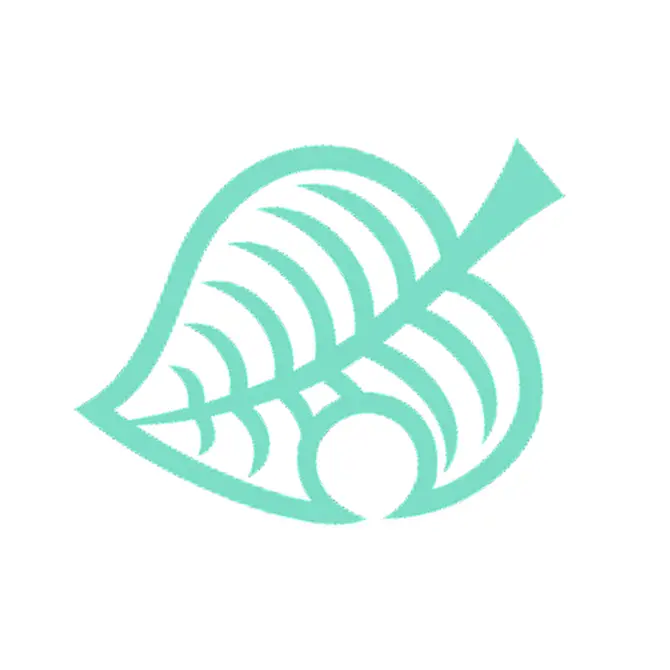
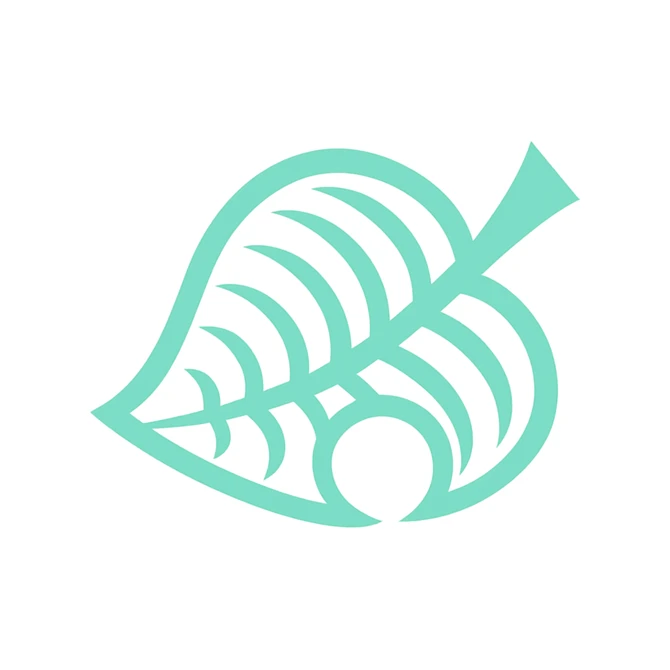
feat: 스플래시를 잎 로고와 테마 바탕으로 변경하고 다크 모드 대응

Changed region(s): [[0.1194, 0.209, 0.8657, 0.806]]

diff --git a/app.config.js b/app.config.js
@@ -10,11 +10,6 @@ export default {
 		scheme: 'animal-crossing-trading-app',
 		userInterfaceStyle: 'automatic',
 		newArchEnabled: true,
-		splash: {
-			image: './assets/images/splash_image.jpg',
-			resizeMode: 'contain',
-			backgroundColor: '#ffffff',
-		},
 		ios: {
 			supportsTablet: true,
 			bundleIdentifier: 'com.janechun.animalcrossingtradingapp',
@@ -22,11 +17,6 @@ export default {
 			infoPlist: {
 				ITSAppUsesNonExemptEncryption: false,
 				FirebaseAutomaticScreenReportingEnabled: false,
-			},
-			splash: {
-				image: './assets/images/splash_image.jpg',
-				resizeMode: 'contain',
-				backgroundColor: '#ffffff',
 			},
 			googleServicesFile: process.env.GOOGLE_SERVICE_INFO_PLIST,
 		},
@@ -45,6 +35,21 @@ export default {
 		},
 		plugins: [
 			'expo-font',
+			[
+				'expo-splash-screen',
+				{
+					image: './assets/images/splash_icon.png',
+					// SplashScreen.tsx의 SPLASH_ICON_WIDTH와 같아야 전환할 때 로고가 움직이지 않는다.
+					// Android 12+는 288dp 캔버스 중앙 지름 192dp 원 밖을 자르므로 잎 대각선이 그 안에 들어가는 150으로 둔다.
+					imageWidth: 150,
+					resizeMode: 'contain',
+					backgroundColor: '#ffffff',
+					dark: {
+						image: './assets/images/splash_icon.png',
+						backgroundColor: '#111118',
+					},
+				},
+			],
 			'expo-web-browser',
 			'@react-native-firebase/app',
 			[

diff --git a/src/screens/SplashScreen.tsx b/src/screens/SplashScreen.tsx
@@ -2,13 +2,18 @@ import { StyleSheet, View } from 'react-native';
 import FastImage from 'react-native-fast-image';
 
 import { Theme, useThemedStyles } from '@/theme';
-import splashImage from '@assets/images/splash_image.jpg';
+import splashIcon from '@assets/images/splash_icon.png';
+
+/** app.config.js의 expo-splash-screen `imageWidth`와 같아야 네이티브 스플래시에서 넘어올 때 로고가 움직이지 않는다 */
+const SPLASH_ICON_WIDTH = 150;
+/** splash_icon.png 원본 크기(797x632)의 가로세로 비율 */
+const SPLASH_ICON_ASPECT_RATIO = 797 / 632;
 
 const SplashScreen = () => {
 	const styles = useThemedStyles(makeStyles);
 	return (
 		<View style={styles.container}>
-			<FastImage source={splashImage} style={styles.image} resizeMode="contain" />
+			<FastImage source={splashIcon} style={styles.image} resizeMode="contain" />
 		</View>
 	);
 };
@@ -22,8 +27,8 @@ const makeStyles = ({ colors }: Theme) =>
 			alignItems: 'center',
 		},
 		image: {
-			width: '100%',
-			height: '100%',
+			width: SPLASH_ICON_WIDTH,
+			aspectRatio: SPLASH_ICON_ASPECT_RATIO,
 		},
 	});
 

diff --git a/agent_docs/environment.md b/agent_docs/environment.md
@@ -26,6 +26,7 @@
 - **RNFB(@react-native-firebase)는 프리컴파일 React-Core와 non-modular header 충돌** — expo-build-properties ios의 `forceStaticLinking: ['RNFBApp', 'RNFBAnalytics']`로 해결 (expo/expo#39607).
 - **프리컴파일 React-Core + `useFrameworks: static`은 런타임 크래시** — 빌드는 성공하나 앱 시작 시 "AccessibilityManager is nil" 네이티브 예외로 "App entry not found" 표시. `buildReactNativeFromSource: true`로 코어를 소스 빌드해 해결. 단 이 옵션은 fmt/folly 프리빌드까지 꺼서 fmt 11 컴파일이 실패하므로 pod install 시점에 `RCT_USE_RN_DEP=1` 필요 — 로컬은 `RCT_USE_RN_DEP=1 npx expo prebuild --clean -p ios`, EAS는 eas.json 각 프로필 `env`에 설정돼 있음.
 - **`expo run:ios`는 시뮬레이터 검증에 부적합** — 실기기 연결 시 실기기를 기본 타깃으로 잡고, Xcode 26.6에서는 devicectl 출력 파싱 실패로 시뮬레이터까지 실기기로 오인해 서명 오류로 실패. 시뮬레이터 빌드는 xcodebuild 직접 사용(`-destination "platform=iOS Simulator,name=..."`).
+- **`app.config.js`의 네이티브 설정(스플래시·아이콘 등)은 Xcode 빌드에 자동 반영되지 않음** — Xcode는 기존 `ios/`를 그대로 빌드하므로 변경 후 `RCT_USE_RN_DEP=1 npx expo prebuild --clean -p ios`로 다시 생성해야 한다. 워크트리마다 `ios/`가 따로라서, 빌드하는 워크트리에서 prebuild해야 하고 git에 없는 `GoogleService-Info.plist`·`.env.local`도 그 워크트리에 복사해야 한다. iOS는 실행 화면(스플래시)을 캐시하므로 새 빌드는 기존 앱을 삭제한 뒤 설치하고, 그래도 예전 화면이면 기기를 재시동한다.
 
 ## 시뮬레이터/dev 서버 함정
 

diff --git a/docs/design-system/plans/spec.md b/docs/design-system/plans/spec.md
@@ -197,6 +197,6 @@
 - **Badge에 정의되지 않은 tone**: tone `brand`로 표시한다. `MarketTypeBadge`·`CommunityTypeBadge`에 매핑에 없는 타입이 들어오면 표시할 라벨이 없으므로 지금처럼 배지를 렌더링하지 않는다.
 - **다크에서 흰 배경이 들어간 이미지**(아이템·주민 이미지, 업로드 사진): 이미지는 바꾸지 않는다. 썸네일 컨테이너는 `bg.secondary` 배경과 모서리를 유지해서 이미지가 화면에 떠 보이지 않게 한다.
 - **광고(`NativeAdUnit`)**: 광고 소재의 이미지·문구 색은 바꾸지 않는다. 광고를 감싼 카드의 배경·테두리·"광고" 라벨만 테마를 따른다.
-- **스플래시 화면**: `splash_image.jpg`는 흰 배경 이미지라서 다크 기기에서도 흰 스플래시가 잠깐 보인 뒤 다크 첫 화면으로 넘어간다. 이번 범위에서는 이 동작을 허용한다.
+- **스플래시 화면**: 잎 로고(`splash_icon.png`, 투명 PNG) 하나만 화면 중앙에 두고, 바탕만 테마를 따른다. 네이티브 스플래시는 `app.config.js`의 `expo-splash-screen` 플러그인 설정에서 `dark`로 다크 바탕(`#111118`, `bg.primary` 다크 값)을 지정하고, JS 스플래시는 `bg.primary`를 쓴다. 전환할 때 로고가 움직이지 않도록 플러그인의 `imageWidth`와 `SplashScreen.tsx`의 로고 너비를 같게(150) 유지한다. Android 12+가 288dp 캔버스 중앙의 지름 192dp 원 밖을 잘라 내므로 로고 너비는 150을 넘기지 않는다.
 - **에러 화면(`ErrorBoundary`)**: 다크 기기에서도 라이트로 표시된다.
 - **테마 전환 중 애니메이션**: 전환은 즉시 일어나며 별도의 색 전환 애니메이션은 없다.
